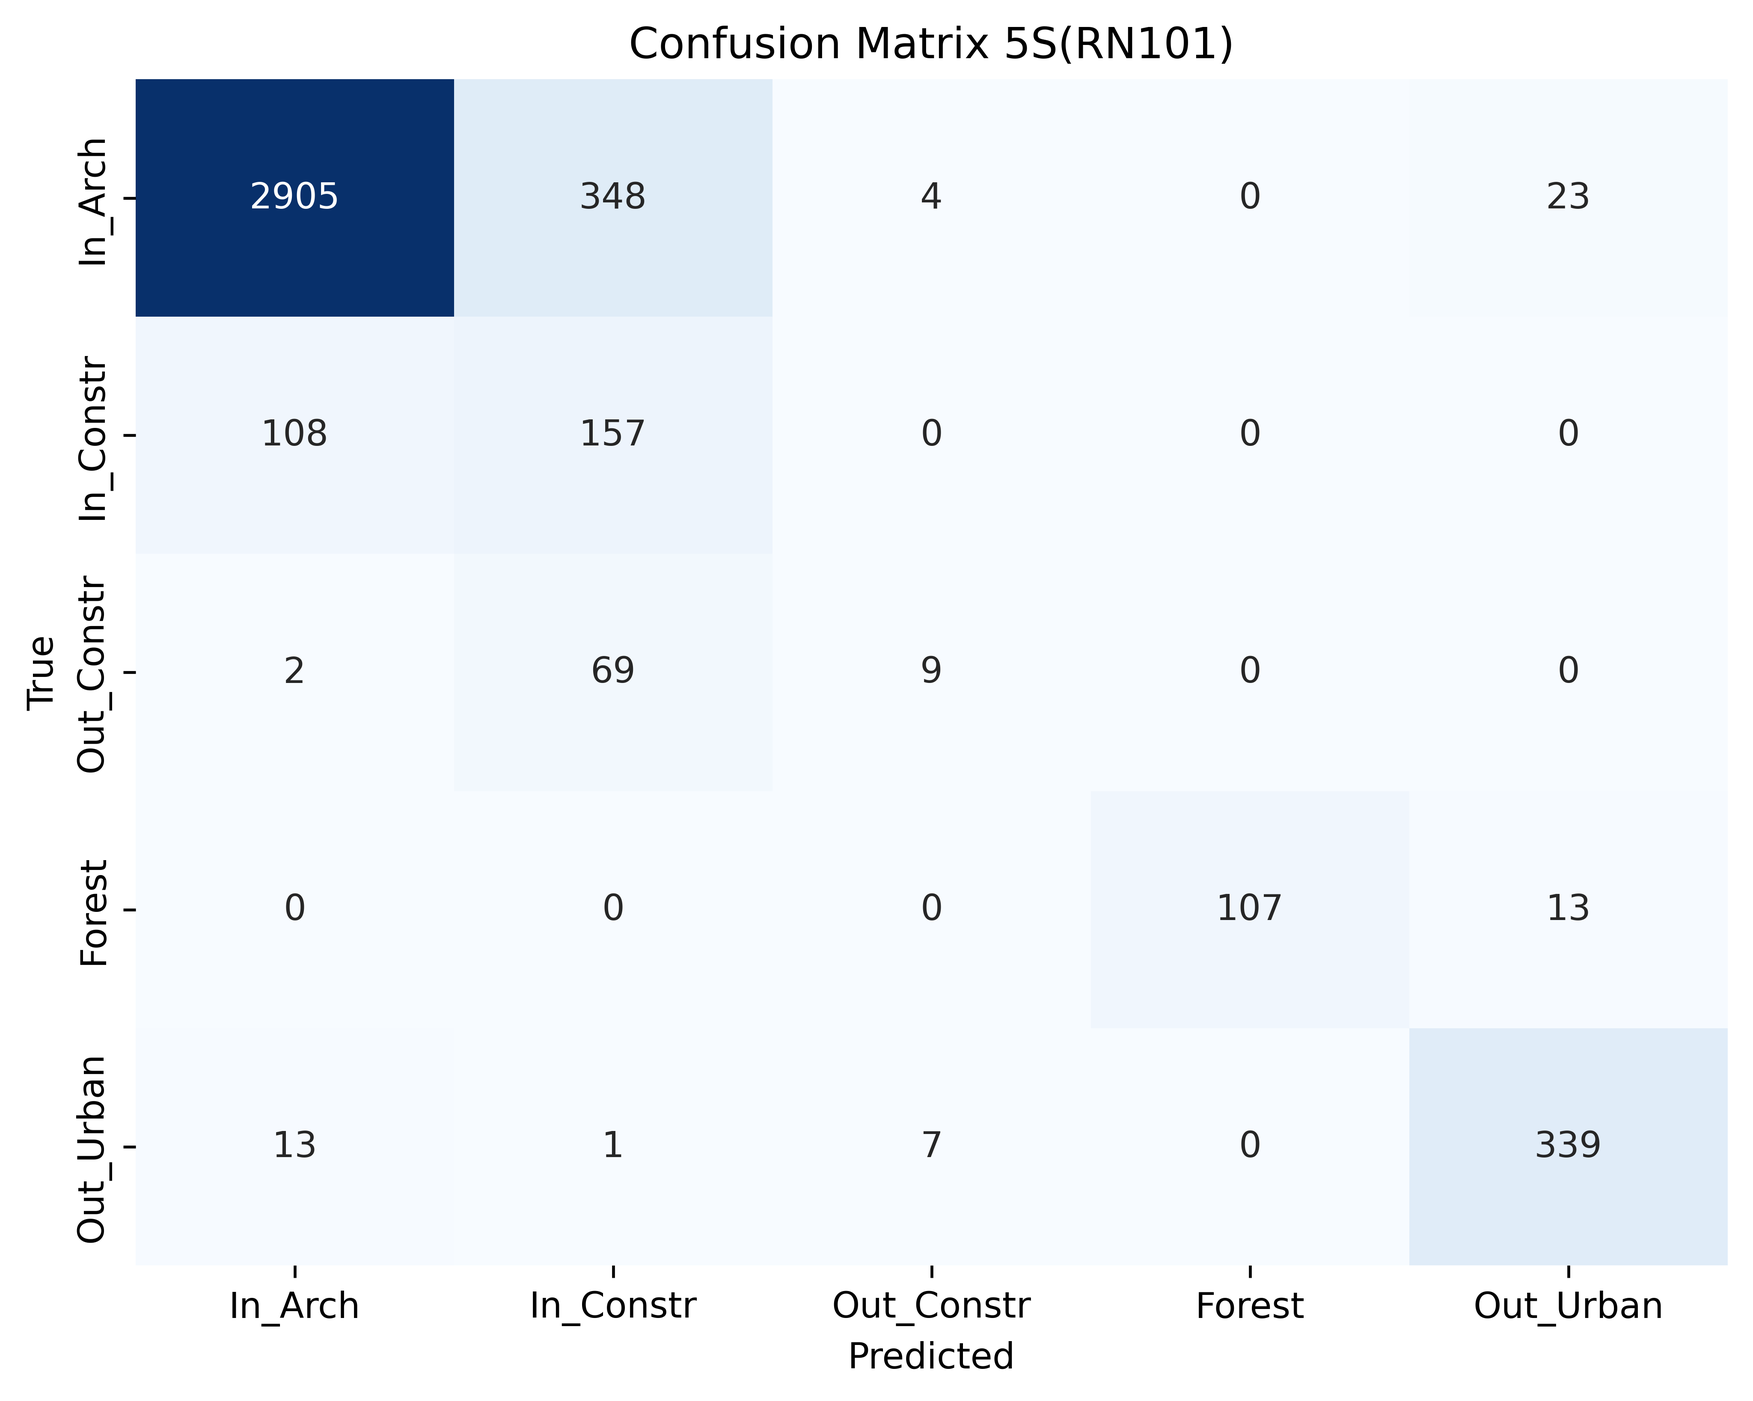
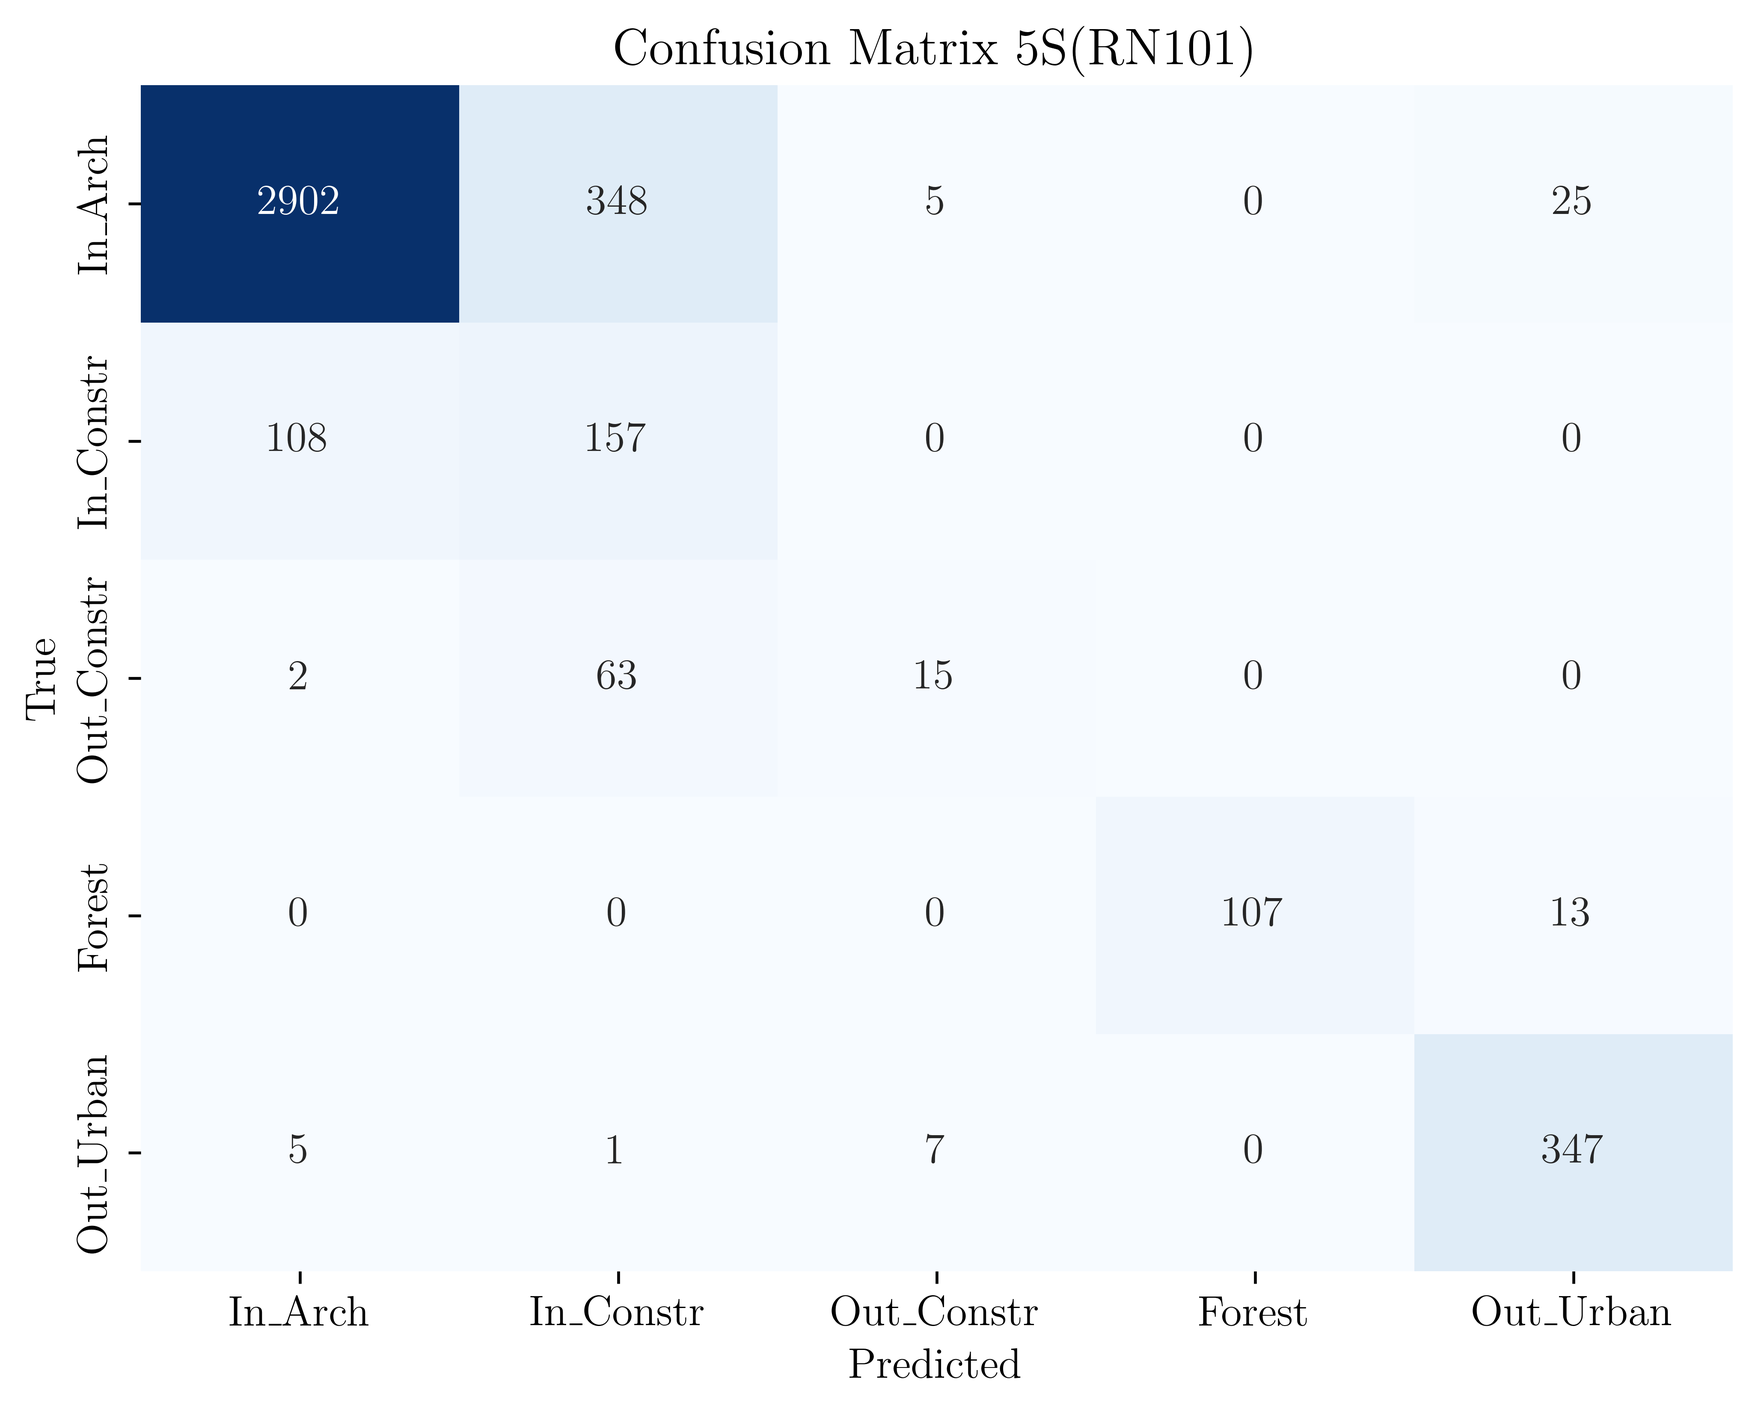
appendix filled, results adjusted

diff --git a/Dokumentation/text/methods.tex b/Dokumentation/text/methods.tex
@@ -40,14 +40,14 @@ The \acrshort{dfc} swaps dimensions and combines the last two dimensions, leadin
 In the ResNet model obtained through the official CLIP repository (see \cref{fig:implementation:clipres50x4}), the transpose block after the MatMul block swaps the second and third dimensions.
 This results in a compilation error because the \acrshort{dfc} has already combined the last two dimensions.
 
-This behavior was discussed with Hailo, and they provided an example where CLIP is run on their hardware. Upon testing, we observed that the error does not occur when using the model provided by Hailo.
+This behavior was discussed with Hailo, and they provided an example where CLIP is run on their hardware. Upon testing, it is observed that the error does not occur when using the model provided by Hailo.
 The reason for this discrepancy is that the networks used by Hailo were acquired with an older version of CLIP and the ONNX exporter.
+The attemp to recreate the graph from hailo faild due to version depedencys.
 While the graphs are functionally equivalent, the architecture differs slightly.
 As seen in \cref{fig:implementation:hailoclipres50x4}, the model provided by Hailo has a maximum of three dimensions.
 To work around this problem, the ONNX graph is cut off between the last matmul and transpose block.
 For this task, the Onnx-Modifier tool \cite{onnxmodifier} is used.
 The removed graph are implemented as postprocessing steps.
-%As described in \cref{section:dfc}, a script can be applied to adjust the behavior of the \acrshort{dfc}.
 After quantization, the graph can again be visualized using a tool called Profiler from Hailo.
 In \cref{fig:implementation:compareRN50x4qunathar}, the compiled model with the cutoff end is visualized.
 In this figure, the combination of the last dimensions can be seen.
@@ -70,7 +70,15 @@ The cut-off part consists of one matrix multiplication and some rearranging of d
 In the first implementation, the weights for the matrix multiplication were extracted and saved in a JSON file.
 In a second attempt, the cut-off ONNX graph was directly used.
 The second attempt proved to be faster and used less memory.
+The cut location can be seen in \cref{fig:implementation:RNcut}.
 
+\begin{figure}
+    \centering
+    \includegraphics[width=0.4\textwidth]{Images/Implementation/firstcutlocation.png}
+    \caption{Graph for the RN50. The Cut is made at the red arrow between the MarMul and the Transpose block.
+    The location is similar for all models.}
+    \label{fig:implementation:RNcut}
+\end{figure}
 \section{Inference}
 
 To ensure a fair comparison of performance, the implementation on the Raspberry Pi closely mirrors the one used on the PC. 
@@ -224,11 +232,6 @@ we get the parameter count for the cut-off graph. Now, this is added to the para
 which is the parameter count before compilation (see \cref{methods:tab:clipsize}).
 This calculation can also be done for all other models, but the result is the same.
 This result means that the architecture isn't affected by the \acrshort{dfc}; it only changes quantization.
-Because of quantization, the memory size should be around four times lower than before, as the datatype of the weights changes from FP32 to INT8.
-In reality, the factor is around 3.
-This can be seen in \cref{methods:tab:sizecompare}.
-It is important to mention that these numbers should be taken with a grain of salt because the datatypes of the saved models are different.
-
 
 \subsection{Model Size Comparison}
 
@@ -237,6 +240,9 @@ As expected, the ONNX models are significantly larger due to the higher precisio
 This size reduction is a direct result of the \acrshort{dfc}'s quantization process.
 For example, the model "RN50" has a file size of 153.2 MB in ONNX format, but after being compiled to HEF, it reduces to 53.7 MB.
 Similar reductions in size can be observed for other models such as RN50x4, RN101, TinyClip19M, and TinyClip30M.
+Because of quantization, the memory size should be around four times lower than before, as the datatype of the weights changes from FP32 to INT8.
+In reality, the factor is around 3.
+It is important to mention that these numbers should be taken with a grain of salt because the datatypes of the saved models are different.
 This reduction improves memory efficiency when deploying these models on hardware accelerators like Hailo.
 
 \begin{table}
@@ -254,7 +260,7 @@ This reduction improves memory efficiency when deploying these models on hardwar
     \label{methods:tab:sizecompare}
 \end{table}
 
-\begin{table}[!h]
+\begin{table}[]
     \centering
     \begin{tabular}{l|rrrrr}
     \hline
@@ -343,7 +349,7 @@ Due to the cutting of the network these layers have to be processed on the CPU o
 In \cref{scetion:methods:contimp} the reason for the bad accuracy is suspected to be the bad quantisation.
 The models are all translated to INT8.
 In a attemp to increase accuracy as much as possible is converted to INT16.
-Other ways to increase the accuracy are better text promts and adjusting the threshold for binary classifications.
+Other ways to increase the accuracy are better text promts, adjusting the threshold for binary classifications or cutting the graph at a diffrent position so that only operation which work well quantized are used on Hailo.
 
 \subsection{Adjust threshold}
 
@@ -355,17 +361,18 @@ This threshold has to be calculate.
 For this calculation one has to watch out to use a balanced dataset.
 To get a balanced dataset a subset is created so that each class has the same amount of images.
 The images are randomly sampled.
-
 This process proved beneficial because it doenst need much computational resources and its easily implemented.
-
+Due to time limitations it was only applied to the classification between Indoot and Outdoor.
+In contrast to the theory the result showed no improvment.
 
 \subsection{Change the cut location
 \label{methods:sec:cutlocation}}
 A assumption is that the last part of the ResNet's, which is a self attention layer, isnt quantising propely due to some big matrix multipications.
 To work against this effect the cut which in any case has to be made can appear earlier in the graph.
 This means that only convolutions and additions were quantised and processed on hailo.
+The cut location can be seen in \cref{methods:fig:rn50newcut}.
 
-\begin{table}[!ht]
+\begin{table}[]
     \centering
     \begin{tabular}{l|rrrrr}
         \hline
@@ -381,20 +388,29 @@ This means that only convolutions and additions were quantised and processed on 
 \end{table}
 
 In \cref{methods:tab:perfHailocut} we see a decrease in accuracy and throughput.
-But the output is grouped that most of the accuracy can be made better by adjusting the threshold.
-In %\cref{}
-we see the adjusted performance
+The decrease in throughput is explained by a larger part which has to be calculated on the CPU.
+In \cref{methods:fig:comparern50newcut} we see the output didn't improve.
 
+
+\begin{figure}[]
+    \centering
+    \includegraphics[width=0.6\textwidth]{Images/Implementation/compareProbs_newCut_RN50.png}
+    \caption{Compare outputs at different \acrshort{dfc} points with RN50 with the new cut position. The new cut position showed no improvment when compared to \cref{methods:fig:comparern50}}
+    \label{methods:fig:comparern50newcut}
+\end{figure}
+
+\begin{figure}[]
+    \centering
+    \includegraphics[width=0.4\textwidth]{Images/Implementation/secondcutlocation.png}
+    \caption{Graph for the RN50. The new Cut location is at the red arrow between the Concat and the Add block.
+    The location is similar for all models.}
+    \label{methods:fig:rn50newcut}
+\end{figure}
 
 \subsection{Change quantisation}
 
 The \acrshort{dfc} offers a way to change the quantisation of the weigths.
 This is applied via the model script in quantisation.
-Due to the limitation that no GPU was available during the project quantising a network to a diffrent type than INT8 took very long.
-
-Due to this reason only TinyCLIP-19M was quantised to INT16.
-In the end 66\% of parameters were INT16  but no increase in accuracy was found.
-
-\section{Best Result}
-
-The best result was found to be the model with the RN101 as visual encoder
+Due to the limitation that no GPU is available during the project quantising a network to a diffrent type than INT8 took very long.
+Due to this reason only TinyCLIP-19M is quantised to INT16.
+In the end 66\% of parameters were INT16 but no increase in accuracy was found.

diff --git a/Dokumentation/text/results.tex b/Dokumentation/text/results.tex
@@ -1,26 +1,26 @@
 \chapter{Results}
-In this chapter the results and their collection is discussed and interpreted.
-
-
-
-
-
-
+In this chapter the results are discussed and interpreted.
+The conclusions taken are based of the other chapters in this work.
 
 \section{Execute models on the edge}
 To have a success full compilation of a network it is important to understand which part of network dont lose much accurcy due to quantisation.
-In \cref{methods:sec:cutlocation} the most of the models had an incerase in accurcy after the matrix multiplication isnt calculate on the edge anymore.
+In this project two implementations are tested.
+One where as much as possibel is calculated on the edge.
+The second tries to take in consideratio how good a given layer quantises.
+Sadly both implementation lack of good results.
+This means no statement in context of how good a layer quantises can be made.
 
-TinyCLIP didnt achieve good results after quantisation.
+All models suffered under a decrease of accuracy after quantisation.
+This effect is sever with TinyCLIP
 The suspision is that TinyCLIP has to few parameters to work propely after quantisation.
-
-The best results are with RN101.
-The diffrenc to the other ResNet models is that RN101 is wider than most models.
-This means that parameters are better invested in width than in depth of a network.
 This would also explain why TinyCLIP isnt giving good results.
 During weight inheritance some weights get masked.
 This reduces the parameter count of a network by making it narrower.
 In \cref{section:weightinheritance} it is mentiond that the authors of TinyCLIP found lot of redundancy in width when examing vision encoders and in the progress of make the model smaller reduced this redundancy.
+This reduction seems lethal to the accuracy after quantisation.
+
+The take away from this work is that models shouldn't be pruned or simplified before quantisation.
+There is even the possibility to give this task to the \acrshort{dfc}.
 
 \section{Working with Hailo}
 
@@ -40,18 +40,19 @@ But on serius problems like the problem with the dimension swap (see \cref{imple
 The python \acrfull{api} can be found online or in the \acrshort{dfc} Guide.
 Sadly it isnt discribed too good.
 All code from hailo is open source.
-Also there are many sources of examples to use the \acrshort{api} but these are again not described very well.
+There are many sources of examples to use the \acrshort{api} but these are again not described very well.
 Most of the code has be understood by the programmer.
 The other way would be asking in the forum of hailo.
 There the time to answer can alter between 1-10 days.
 
+The suspision arrises that full potential  of the \acrshort{dfc} the is not utilized because of the absence of a GPU.
 
 
 \section{Conclusion}
 
 To use qunatized models it isnt beneficial to reduce its parameter count before compilation.
 Especialy with hailo because the \acrshort{dfc} is capable of pruning and optimization.
-This is shown in the result as RN101 shows the best results after quantisation.
+This is shown in the result as the CLIP models show the better results after quantisation than the TinyCLIP models.
 
 It is beneficial to use apropoate hardware (\acrshort{gpu}) to speed up the compilation time.
 There are also cetrain functions of the \acrshort{dfc} which arent possible to make without a \acrshort{gpu} like optimization of a network.

diff --git a/Dokumentation/appendix/resultHailo.tex b/Dokumentation/appendix/resultHailo.tex
@@ -1,1 +1,32 @@
-\chapter{Result Hailo}
+\chapter{Evaluation on Hailo-8L}
+\begin{figure}[!h]
+    \centering
+    \subfloat[][TinyClip19M]{\includegraphics[width=0.45\textwidth]{Images/appendix/resultsHailo/oldCut/Confusion Matrix 5S(TinyClip-19M).png}\label{resulthailo:fig:tiny19M5s}}
+    \subfloat[][TinyClip30M]{\includegraphics[width=0.45\textwidth]{Images/appendix/resultsHailo/oldCut/Confusion Matrix 5S(TinyClip-30M).png}\label{resulthailo:fig:tiny30M5s}}
+    \caption{Confusion Matrix on Hailo-8L for TinyCLIP with ResNets as Visual Encoder (5 Sentences as Text Embeddings)}
+    \label{resulthailo:fig:tinyclipevalhailo5s}
+\end{figure}
+\begin{figure}[]
+    \centering
+    \subfloat[][RN50]{\includegraphics[width=0.45\textwidth]{Images/appendix/resultsHailo/oldCut/Confusion Matrix 5S(RN50).png}\label{resulthailo:fig:rn505s}}
+    \subfloat[][RN50x4]{\includegraphics[width=0.45\textwidth]{Images/appendix/resultsHailo/oldCut/Confusion Matrix 5S(RN50x4).png}\label{resulthailo:fig:rn50x45s}} \\
+    \subfloat[][RN101]{\includegraphics[width=0.45\textwidth]{Images/appendix/resultsHailo/oldCut/Confusion Matrix 5S(RN101).png}\label{resulthailo:fig:rn1015s}}
+    \caption{Confusion Matrix on Hailo-8L for CLIP with ResNets as Visual Encoder (5 Sentences as Text Embeddings)}
+    \label{resulthailo:fig:clipevalhailo5s}
+\end{figure}
+
+\begin{figure}[!h]
+    \centering
+    \subfloat[][TinyClip19M]{\includegraphics[width=0.45\textwidth]{Images/appendix/resultsHailo/newCut/withoutThreshold/Confusion Matrix 5S(TinyClip-19M).png}}
+    \subfloat[][TinyClip30M]{\includegraphics[width=0.45\textwidth]{Images/appendix/resultsHailo/newCut/withoutThreshold/Confusion Matrix 5S(TinyClip-30M).png}}
+    \caption{Confusion Matrix on Hailo-8L with the new cut for TinyCLIP with ResNets as Visual Encoder (5 Sentences as Text Embeddings)}
+    \label{resulthailo:fig:tinyclipevalhailo5snewcut}
+\end{figure}
+\begin{figure}[]
+    \centering
+    \subfloat[][RN50]{\includegraphics[width=0.45\textwidth]{Images/appendix/resultsHailo/newCut/withoutThreshold/Confusion Matrix 5S(RN50).png}}
+    \subfloat[][RN50x4]{\includegraphics[width=0.45\textwidth]{Images/appendix/resultsHailo/newCut/withoutThreshold/Confusion Matrix 5S(RN50x4).png}} \\
+    \subfloat[][RN101]{\includegraphics[width=0.45\textwidth]{Images/appendix/resultsHailo/newCut/withoutThreshold/Confusion Matrix 5S(RN101).png}}
+    \caption{Confusion Matrix on Hailo-8L with the new cut for CLIP with ResNets as Visual Encoder (5 Sentences as Text Embeddings)}
+    \label{resulthailo:fig:clipevalhailo5snewcut}
+\end{figure}

diff --git a/Dokumentation/appendix/resultRaspi.tex b/Dokumentation/appendix/resultRaspi.tex
@@ -1,6 +1,12 @@
 \chapter{Evaluation on Raspberry Pi CPU}
 The following figures are the confusion matrices evaluation on PC CPU.
-
+\begin{figure}[!h]
+    \centering
+    \subfloat[][TinyClip19M]{\includegraphics[width=0.45\textwidth]{Images/appendix/resultsRaspi/Confusion Matrix 5S(TinyCLIP-19M).png}\label{resultpc:fig:tiny19M5s}}
+    \subfloat[][TinyClip30M]{\includegraphics[width=0.45\textwidth]{Images/appendix/resultsRaspi/Confusion Matrix 5S(TinyCLIP-30M).png}\label{resultpc:fig:tiny30M5s}}
+    \caption{Confusion Matrix on Raspberry Pi CPU for TinyCLIP with ResNets as Visual Encoder (5 Sentences as Text Embeddings)}
+    \label{resultpc:fig:tinyclipevalraspi5s}
+\end{figure}
 \begin{figure}[!h]
     \centering
     \subfloat[][RN50]{\includegraphics[width=0.45\textwidth]{Images/appendix/resultsRaspi/Confusion Matrix 5S(RN50).png}\label{resultpc:fig:rn505s}}
@@ -10,10 +16,3 @@ The following figures are the confusion matrices evaluation on PC CPU.
     \label{resultpc:fig:clipevalraspi5s}
 \end{figure}
 
-\begin{figure}[!h]
-    \centering
-    \subfloat[][TinyClip19M]{\includegraphics[width=0.45\textwidth]{Images/appendix/resultsRaspi/Confusion Matrix 5S(TinyCLIP-ResNet-19M-Text-19M).png}\label{resultpc:fig:tiny19M5s}}
-    \subfloat[][TinyClip30M]{\includegraphics[width=0.45\textwidth]{Images/appendix/resultsRaspi/Confusion Matrix 5S(TinyCLIP-ResNet-30M-Text-29M).png}\label{resultpc:fig:tiny30M5s}}
-    \caption{Confusion Matrix on Raspberry Pi CPU for TinyCLIP with ResNets as Visual Encoder (5 Sentences as Text Embeddings)}
-    \label{resultpc:fig:tinyclipevalraspi5s}
-\end{figure}

diff --git a/Dokumentation/appendix/resultPC.tex b/Dokumentation/appendix/resultPC.tex
@@ -1,6 +1,12 @@
 \chapter{Evaluation on PC}
 The following figures are the confusion matrices evaluation on PC CPU.
-
+\begin{figure}[!hb]
+    \centering
+    \subfloat[][TinyClip19M]{\includegraphics[width=0.45\textwidth]{Images/appendix/resultsPC/Confusion Matrix 5S(TinyCLIP-ResNet-19M-Text-19M).png}\label{resultpc:fig:tiny19M5s}}
+    \subfloat[][TinyClip30M]{\includegraphics[width=0.45\textwidth]{Images/appendix/resultsPC/Confusion Matrix 5S(TinyCLIP-ResNet-30M-Text-29M).png}\label{resultpc:fig:tiny30M5s}}
+    \caption{Confusion Matrix on PC for TinyCLIP with ResNets as Visual Encoder (5 Sentences as Text Embeddings)}
+    \label{resultpc:fig:tinyclipevalpc5s}
+\end{figure}
 \begin{figure}[!h]
     \centering
     \subfloat[][RN50]{\includegraphics[width=0.45\textwidth]{Images/appendix/resultsPC/Confusion Matrix 5S(RN50).png}\label{resultpc:fig:rn505s}}
@@ -12,12 +18,6 @@ The following figures are the confusion matrices evaluation on PC CPU.
     \label{resultpc:fig:clipevalpc5s}
 \end{figure}
 
-\begin{figure}[!h]
-    \centering
-    \subfloat[][TinyClip19M]{\includegraphics[width=0.45\textwidth]{Images/appendix/resultsPC/Confusion Matrix 5S(TinyCLIP-ResNet-19M-Text-19M).png}\label{resultpc:fig:tiny19M5s}}
-    \subfloat[][TinyClip30M]{\includegraphics[width=0.45\textwidth]{Images/appendix/resultsPC/Confusion Matrix 5S(TinyCLIP-ResNet-30M-Text-29M).png}\label{resultpc:fig:tiny30M5s}}
-    \caption{Confusion Matrix on PC for TinyCLIP with ResNets as Visual Encoder (5 Sentences as Text Embeddings)}
-    \label{resultpc:fig:tinyclipevalpc5s}
-\end{figure}
+
 
 

diff --git a/Dokumentation/text/hardware.tex b/Dokumentation/text/hardware.tex
@@ -32,7 +32,7 @@ The \acrshort{dfc} then compiles the model to a \Acrfull{hef} by executing the f
 \end{enumerate}
 
 In the full precision optimization step, the ONNX file is first compiled into a \acrfull{har} file, a file type defined by Hailo.  
-This step also includes any changes to the model in the floating-point precision domain, such as Equalization \cite{meller2019same}, \acrshort{tse} \cite{Vosco_2021_ICCV}, and pruning.  
+This step also can include changes to the model in the floating-point precision domain, such as Equalization \cite{meller2019same}, \acrshort{tse} \cite{Vosco_2021_ICCV}, and pruning.  
 
 In the quantization optimization step, the model is compressed.  
 This means that the model is converted from floating-point to integer.  

diff --git a/Dokumentation/common/titlepage.tex b/Dokumentation/common/titlepage.tex
@@ -44,7 +44,7 @@
 
     % Wichtige Informationen
     \begin{tabular}{rl}
-        \bfseries\sffamily Advisor              & Prof. Andreas Breitenmoser \\
+        \bfseries\sffamily Advisor              & Prof. Dr. Andreas Breitenmoser \\
         \bfseries\sffamily Industry partner     & Hexagon AB \\
         \bfseries\sffamily Co-advisors Hexagon   & Martin Winistörfer, Tobias Wiesner \\
     \end{tabular}
